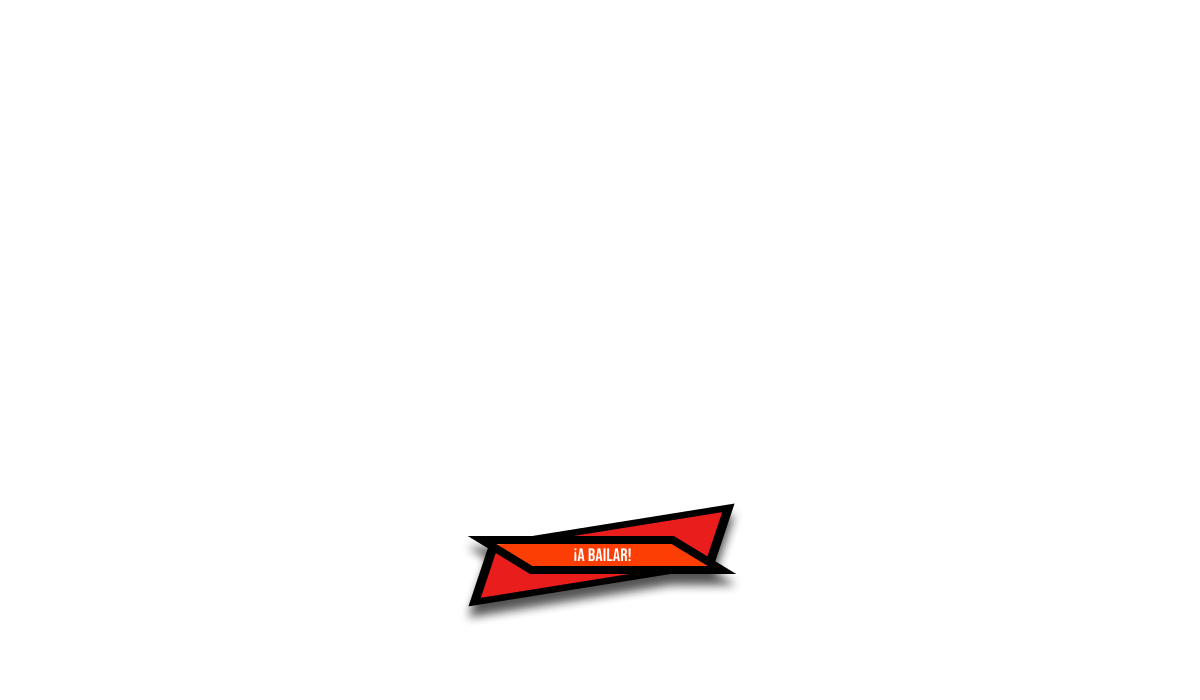
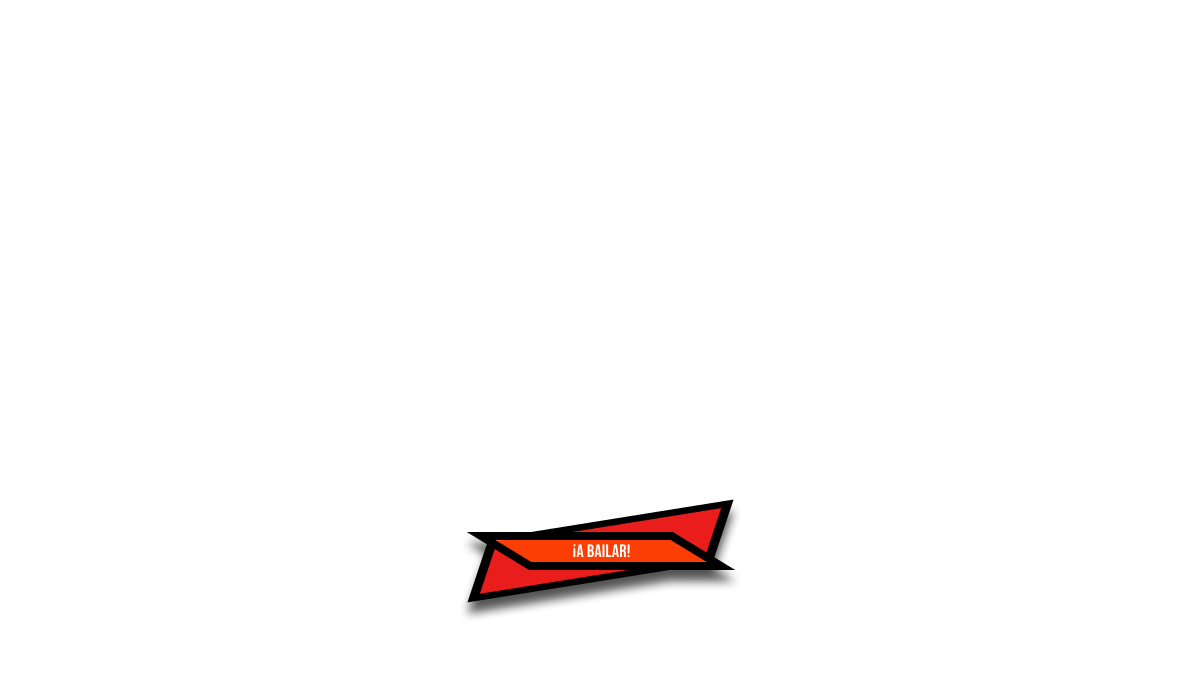
Efecto melo en los botones cuando se para encima

Changed region(s): [[0.37, 0.72, 0.6167, 0.9]]

diff --git a/src/view/CuyMain.java b/src/view/CuyMain.java
@@ -6,17 +6,14 @@ import processing.core.PImage;
 import processing.sound.SoundFile;
 
 public class CuyMain extends PApplet {
+
 	int pantalla;
-	ConnectScreen connect;
-	GameScreen game;
-	InitScreen start;
-	InstructionScreen instruct;
-	Winner1Screen winp1;
-	Winner2Screen winp2;
+	Screen connect, game, start, instruct, winp1, winp2;
 	Boolean p1HasConnect, p2HasConnect, p1HasWon, p2HasWon;
 	SoundFile song;
-	PImage conectado1,conectado2,esperarConex1,esperarConex2,aBailar;
-	Cuy p1,p2;
+	PImage conectado1, conectado2, esperarConex1, esperarConex2, aBailar;
+	PImage btnPlay, btnExit, btnContinue, btnDance,btnPlayAgain, btnBackMenu;
+	Cuy p1, p2;
 
 	public static void main(String[] args) {
 		PApplet.main(CuyMain.class.getName());
@@ -31,32 +28,40 @@ public class CuyMain extends PApplet {
 
 	@Override
 	public void setup() {
-		pantalla = 3;
+		pantalla = 4;
 		connect = new ConnectScreen(this);
 		game = new GameScreen(this);
 		start = new InitScreen(this);
 		instruct = new InstructionScreen(this);
 		winp1 = new Winner1Screen(this);
 		winp2 = new Winner2Screen(this);
-		song = new SoundFile(this,"res/sound/Song.mp3");
-		conectado1 = loadImage ("res/img/Conectado1.png");
-		conectado2 = loadImage ("res/img/Conectado2.png");
-		esperarConex1 = loadImage ("res/img/EsperarConex1.png");
-		esperarConex2 = loadImage ("res/img/EsperarConex2.png");
-		aBailar = loadImage ("res/img/ABailar.png");
-		p1HasConnect= false; 
-		p2HasConnect = false; 
+		song = new SoundFile(this, "res/sound/Song.mp3");
+		conectado1 = loadImage("res/img/Conectado1.png");
+		conectado2 = loadImage("res/img/Conectado2.png");
+		esperarConex1 = loadImage("res/img/EsperarConex1.png");
+		esperarConex2 = loadImage("res/img/EsperarConex2.png");
+		aBailar = loadImage("res/img/ABailar.png");
+		p1HasConnect = false;
+		p2HasConnect = false;
 		p1HasWon = true;
 		p2HasWon = false;
-		p1 = new Cuy(1,this);
-		p2 = new Cuy(2,this);
-		//song.play();
+		p1 = new Cuy(1, this);
+		p2 = new Cuy(2, this);
+		//BOTONES
+		btnPlay = loadImage("res/img/BtnPlay.png");
+		btnExit = loadImage("res/img/BtnExit.png");
+		btnContinue = loadImage("res/img/BtnContinue.png");
+		btnDance = loadImage("res/img/BtnDance.png");
+		btnPlayAgain = loadImage("res/img/BtnPlayAgain.png");
+		btnBackMenu = loadImage("res/img/BtnBackMenu.png");
+		// song.play();
 	}
 
 	@Override
 	public void draw() {
 		changeScreen();
-		System.out.println(mouseX+" "+mouseY);
+		buttonSelect();
+		System.out.println(mouseX + " " + mouseY);
 	}
 
 	public void changeScreen() {
@@ -69,18 +74,18 @@ public class CuyMain extends PApplet {
 			break;
 		case 2:
 			connect.draw();
-			if(!p1HasConnect) {
-					image(esperarConex1,0,0);	
-				}else {
-					image(conectado1,0,0);	
-				}
-			if(!p2HasConnect) {
-					image(esperarConex2,0,0);	
-			}else {
-					image(conectado2,0,0);	
+			if (!p1HasConnect) {
+				image(esperarConex1, 0, 0);
+			} else {
+				image(conectado1, 0, 0);
 			}
-			if(p1HasConnect&&p2HasConnect) {
-				image(aBailar,0,0);
+			if (!p2HasConnect) {
+				image(esperarConex2, 0, 0);
+			} else {
+				image(conectado2, 0, 0);
+			}
+			if (p1HasConnect && p2HasConnect) {
+				image(aBailar, 0, 0);
 			}
 			break;
 		case 3:
@@ -89,50 +94,85 @@ public class CuyMain extends PApplet {
 			p2.draw();
 			break;
 		case 4:
-			if(p1HasWon) {
-			winp1.draw();
-			}else if(p2HasWon) {
-			winp2.draw();	
+			if (p1HasWon) {
+				winp1.draw();
+			} else if (p2HasWon) {
+				winp2.draw();
 			}
 			break;
-		
 		}
-	
+
 	}
-public void mousePressed() {
-	p1HasConnect=!p1HasConnect;
-	p2HasConnect=!p2HasConnect;
-		switch(pantalla) {
+
+	public void buttonSelect() {
+		switch (pantalla) {
 		case 0:
-			//DE INICIO A INSTRUCCIONES
-			if((463<mouseX&&mouseX<730)&&(371<mouseY&&mouseY<473)) {
-				pantalla=1;
+			if ((463 < mouseX && mouseX < 730) && (371 < mouseY && mouseY < 473)) {
+				image(btnPlay, 0, 0);
 			}
-			//DE INICIO A SALIR
-			if((463<mouseX&&mouseX<730)&&(523<mouseY&&mouseY<625)) {
+			if ((463 < mouseX && mouseX < 730) && (523 < mouseY && mouseY < 625)) {
+				image(btnExit, 0, 0);
+			}
+			break;
+		case 1:
+			if ((814 < mouseX && mouseX < 1076) && (562 < mouseY && mouseY < 670)) {
+				image(btnContinue, 0, 0);
+			}
+			break;
+		case 2:
+			if (p1HasConnect && p2HasConnect && (467 < mouseX && mouseX < 730) && (498 < mouseY && mouseY < 601)) {
+				image(btnDance, 0, 0);
+			}
+			break;
+		case 4:
+			if ((47 < mouseX && mouseX < 310) && (378 < mouseY && mouseY < 643)) {
+				image(btnPlayAgain, 0, 0);
+			}
+			
+			if ((380 < mouseX && mouseX < 643) && (378 < mouseY && mouseY < 643)) {
+				image(btnBackMenu, 0, 0);
+			}
+			break;
+
+		default:
+			break;
+		}
+	}
+
+	public void mousePressed() {
+		p1HasConnect = !p1HasConnect;
+		p2HasConnect = !p2HasConnect;
+		switch (pantalla) {
+		case 0:
+			// DE INICIO A INSTRUCCIONES
+			if ((463 < mouseX && mouseX < 730) && (371 < mouseY && mouseY < 473)) {
+				pantalla = 1;
+			}
+			// DE INICIO A SALIR
+			if ((463 < mouseX && mouseX < 730) && (523 < mouseY && mouseY < 625)) {
 				exit();
 			}
 			break;
 		case 1:
-			//DE INSTRUCCIONES A CONEXION
-			if((814<mouseX&&mouseX<1076)&&(562<mouseY&&mouseY<670)) {
-				pantalla=2;
+			// DE INSTRUCCIONES A CONEXION
+			if ((814 < mouseX && mouseX < 1076) && (562 < mouseY && mouseY < 670)) {
+				pantalla = 2;
 			}
 			break;
 		case 2:
-			//DE CONEXION A JUGAR
-			if(p1HasConnect&&p2HasConnect&&(467<mouseX&&mouseX<730)&&(498<mouseY&&mouseY<601)) {
-				pantalla=3;
+			// DE CONEXION A JUGAR
+			if (p1HasConnect && p2HasConnect && (467 < mouseX && mouseX < 730) && (498 < mouseY && mouseY < 601)) {
+				pantalla = 3;
 			}
 			break;
 		case 4:
-			//DE VICTORIA A INICIO
-			if((47<mouseX&&mouseX<310)&&(378<mouseY&&mouseY<643)) {
-				pantalla=3;
+			// DE VICTORIA A JUGAR
+			if ((47 < mouseX && mouseX < 310) && (378 < mouseY && mouseY < 643)) {
+				pantalla = 3;
 			}
-			//DE VICTORIA A JUGAR
-			if((380<mouseX&&mouseX<643)&&(378<mouseY&&mouseY<643)) {
-				pantalla=0;
+			// DE VICTORIA A INICIO
+			if ((380 < mouseX && mouseX < 643) && (378 < mouseY && mouseY < 643)) {
+				pantalla = 0;
 			}
 
 			break;

diff --git a/src/model/Cuy.java b/src/model/Cuy.java
@@ -4,30 +4,32 @@ import processing.core.PApplet;
 import processing.core.PImage;
 
 public class Cuy {
-private int player;
-private PImage cuyUp1,cuyUp2,cuyDown1,cuyDown2,cuyLeft1,cuyLeft2,cuyRight1,cuyRight2,cuyRojo,cuyAzul;
-private PApplet app;
-public Cuy(int player, PApplet app) {
-	this.player = player;
-	this.app = app;
-	cuyRojo = app.loadImage("res/img/CuyoRojo.png");
-	cuyAzul = app.loadImage("res/img/CuyoAzul.png");
-	cuyUp1 = app.loadImage("res/img/CuyoRojoArriba.png");
-	cuyDown1 = app.loadImage("res/img/CuyoRojoAbajo.png");
-	cuyLeft1 = app.loadImage("res/img/CuyoRojoIzquierdo.png");
-	cuyRight1 = app.loadImage("res/img/CuyoRojoDerecho.png");
-	cuyUp2 = app.loadImage("res/img/CuyoAzulArriba.png");
-	cuyDown2 = app.loadImage("res/img/CuyoAzulAbajo.png");
-	cuyLeft2 = app.loadImage("res/img/CuyoAzulIzquierdo.png");
-	cuyRight2 = app.loadImage("res/img/CuyoAzulDerecho.png");
-}
-public void draw() {
-	if(player==1) {
-		app.image(cuyRojo,218,387);
+	private int player;
+	private PImage cuyUp1, cuyUp2, cuyDown1, cuyDown2, cuyLeft1, cuyLeft2, cuyRight1, cuyRight2, cuyRojo, cuyAzul;
+	private PApplet app;
+
+	public Cuy(int player, PApplet app) {
+		this.player = player;
+		this.app = app;
+		cuyRojo = app.loadImage("res/img/CuyoRojo.png");
+		cuyAzul = app.loadImage("res/img/CuyoAzul.png");
+		cuyUp1 = app.loadImage("res/img/CuyoRojoArriba.png");
+		cuyDown1 = app.loadImage("res/img/CuyoRojoAbajo.png");
+		cuyLeft1 = app.loadImage("res/img/CuyoRojoIzquierdo.png");
+		cuyRight1 = app.loadImage("res/img/CuyoRojoDerecho.png");
+		cuyUp2 = app.loadImage("res/img/CuyoAzulArriba.png");
+		cuyDown2 = app.loadImage("res/img/CuyoAzulAbajo.png");
+		cuyLeft2 = app.loadImage("res/img/CuyoAzulIzquierdo.png");
+		cuyRight2 = app.loadImage("res/img/CuyoAzulDerecho.png");
 	}
-	if(player==2) {
-		app.image(cuyAzul,898,387);
+
+	public void draw() {
+		if (player == 1) {
+			app.image(cuyRojo, 218, 387);
+		}
+		if (player == 2) {
+			app.image(cuyAzul, 898, 387);
+		}
 	}
-}
 
 }
